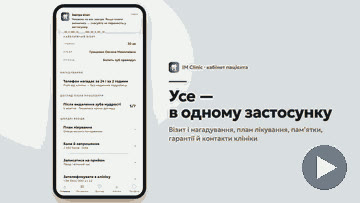
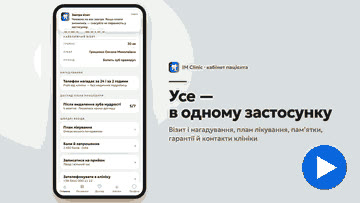
email-gif: палітра з -loop 1 і рівно 26 кадрів — ffmpeg 9 падав «Internal bug» на одиночному кадрі палітри; кадри GIF із синьою ▶

Changed region(s): [[0.825, 0.7094, 0.9778, 0.9458], [0.4583, 0.2956, 0.4889, 0.3547], [0.1528, 0.0591, 0.1833, 0.1182]]

diff --git a/video/previews/README.md b/video/previews/README.md
@@ -11,4 +11,4 @@
 - `scene7` — дубль 1 з 4: широка щира усмішка з природними зубами всі 5 с, без рук у кадрі; у дубля 2 псевдотекст на табличці й гримаса наприкінці. Старий кліп — `clips/scene7-old.mp4`.
 - `qr` — дубль 1 з 2: телефон наведено на планшет, адміністраторка усміхається; у дубля 2 телефон збоку від планшета.
 
-`gif-1`…`gif-3` — кадри з `work/clinic-promo.gif` (`./email-gif.sh` після a3e0577: 26 кадрів, 360×203, 16 кольорів, 287 КБ, ▶ у правому нижньому куті): QR на планшеті → головна з пушем → усмішка.
+`gif-1`…`gif-3` — кадри з `work/clinic-promo.gif` (`./email-gif.sh` після 7414d13: 26 кадрів, 360×203, 16 кольорів (2 зарезервовано під синю ▶), 280 КБ, ▶ у правому нижньому куті): QR на планшеті → головна з пушем → усмішка.
